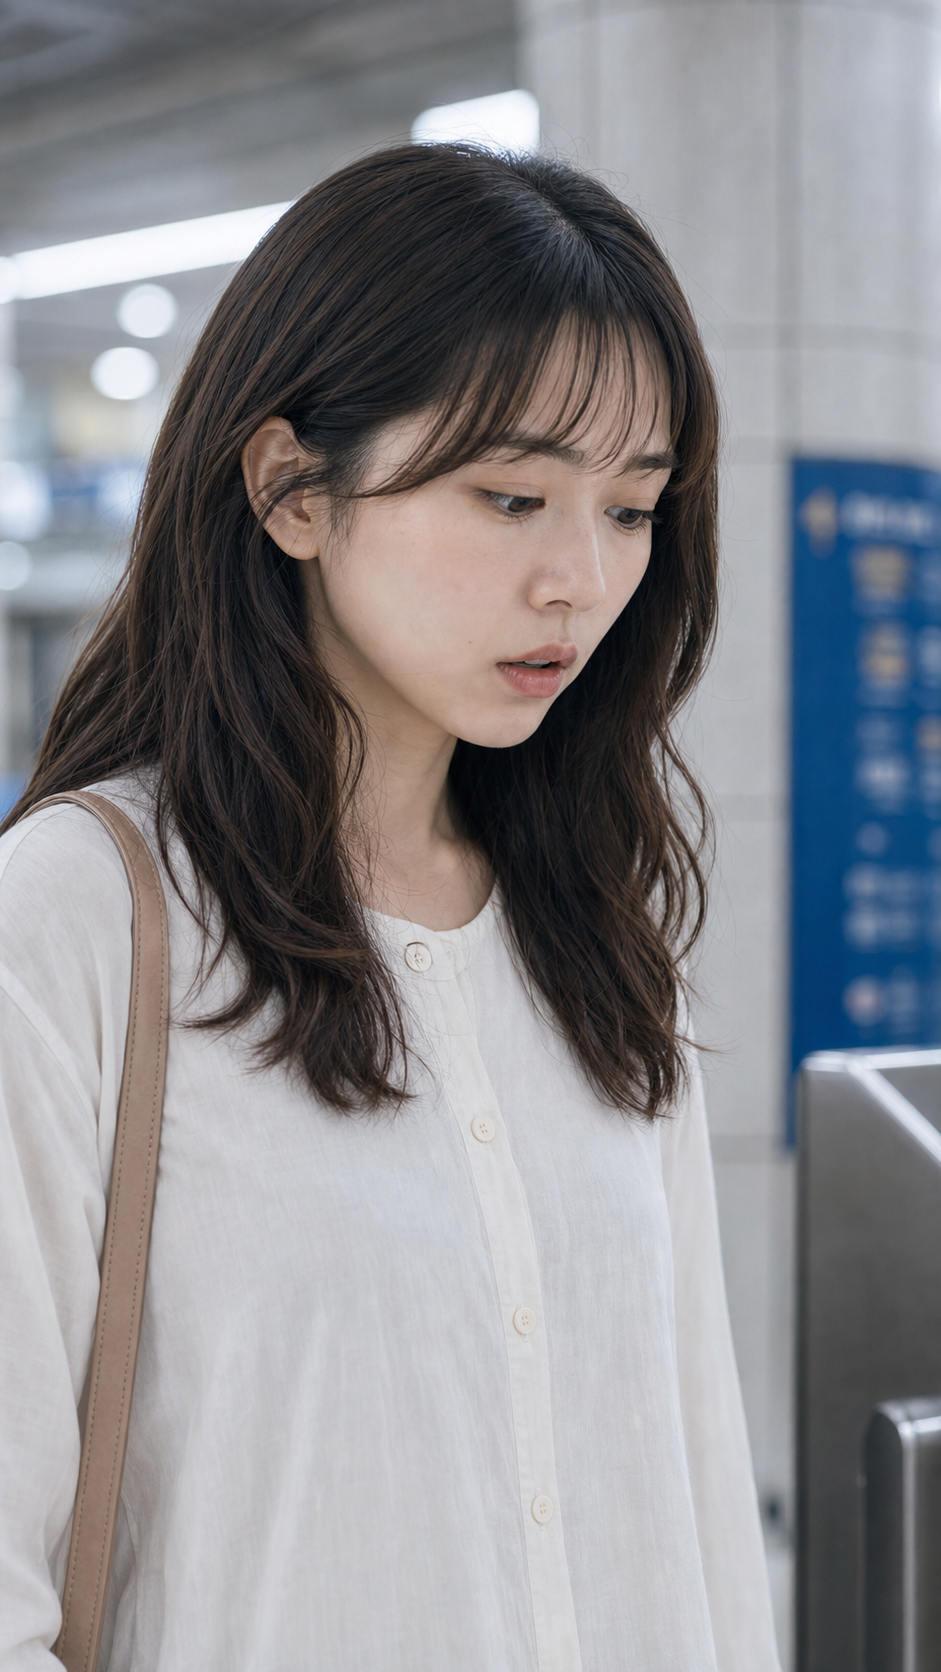
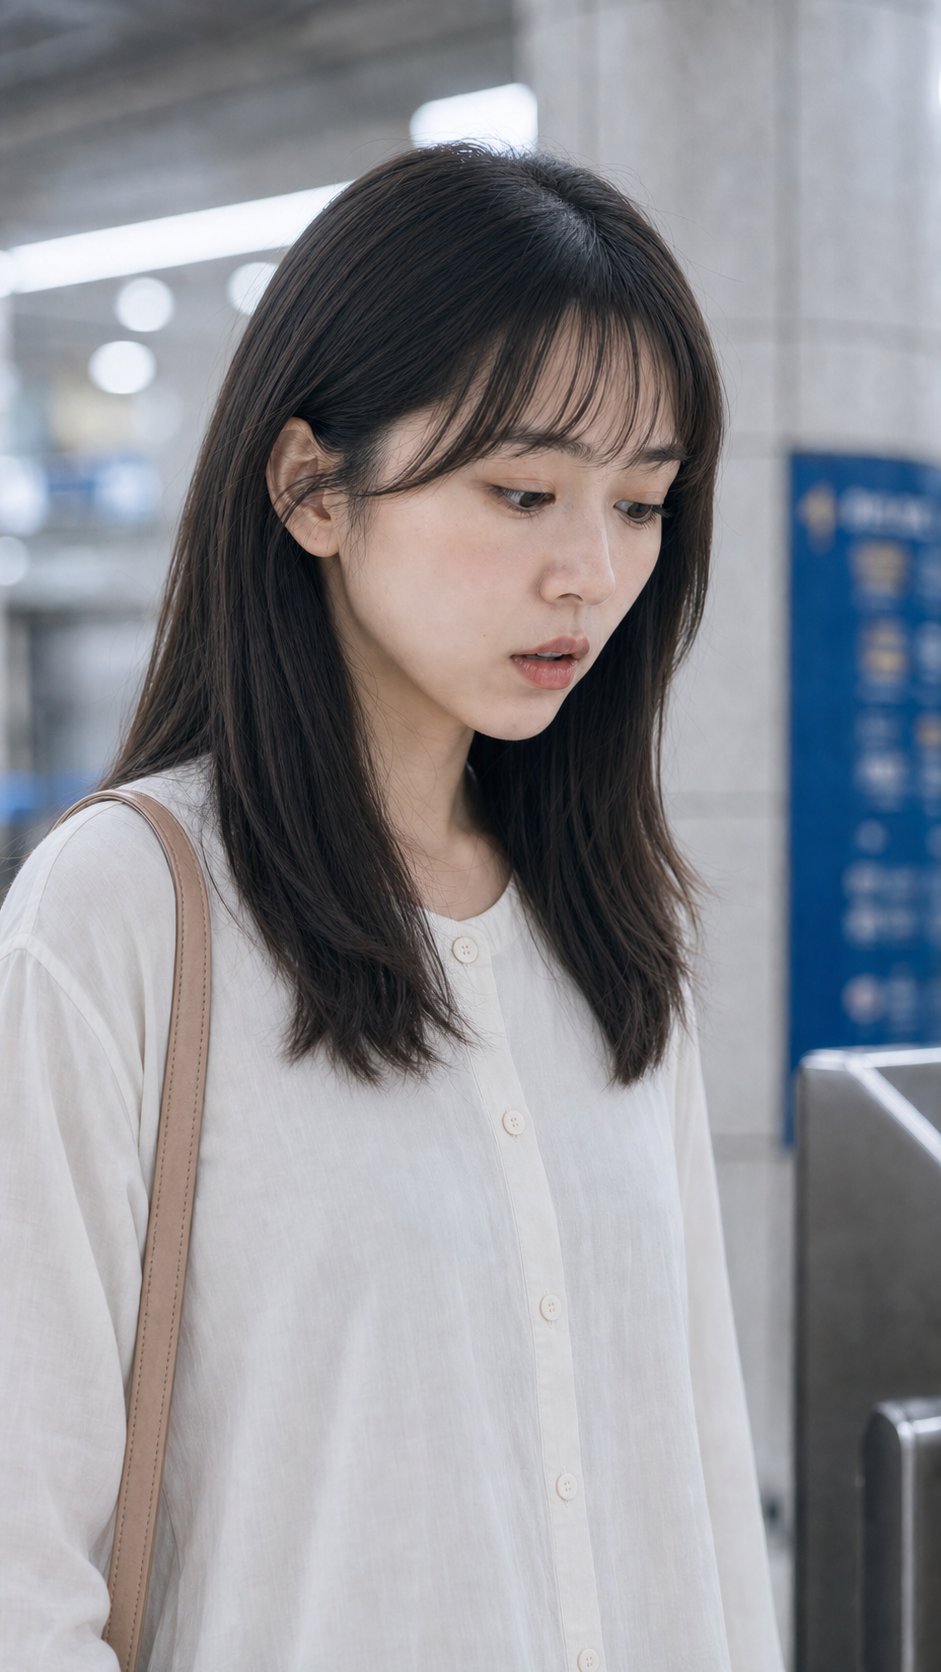
feat: recast tourist across storyboard

diff --git a/edit/storyboard_gpt2/prompts/prompt-pack.md b/edit/storyboard_gpt2/prompts/prompt-pack.md
@@ -23,15 +23,15 @@ Create the empty spatial master with exactly six separate gate cabinets forming 
 
 ## A02 — tourist blocking master
 
-Inputs: S02 sketch = composition reference; tourist sheet = exact identity/wardrobe reference; A01 = exact environment/geography reference.
+Inputs: S02 sketch = composition reference; `tourist_lock_JP_v2.jpg` = exact Photo 1 identity; A01 = exact environment/geography reference.
 
 ```text
-Preserve A01's Korean station, exact `타는 곳  Tracks  ①  →` sign, camera height, six cabinets/five lanes and G3/G4 geography. Add exactly one locked Japanese woman entering from offscreen-left and stopping at the G3 entrance. She remains before the closed dark glass flap. Her right arm reaches toward the screen-right G3 reader; her silver suitcase trails behind-left and remains outside the gate. Full body plus gate context, calm travel posture, beige crossbody bag visible. Do not move the reader, alter the sign, open the flap, place her beyond the flap, add a referee, reveal a TOSS card or add foreground travelers.
+Preserve A01's Korean station, exact `타는 곳  Tracks  ①  →` sign, camera height, six cabinets/five lanes and G3/G4 geography. Add exactly the Photo 1 Japanese woman with straight dark-brown shoulder-length hair and light full bangs, entering from offscreen-left and stopping at the G3 entrance. She remains before the closed dark glass flap. Her right arm reaches toward the screen-right G3 reader; her silver suitcase trails behind-left and remains outside the gate. Full body plus gate context, white blouse, light-blue jeans, beige flats and beige crossbody bag visible. Do not move the reader, alter the sign, open the flap, place her beyond the flap, add a referee, reveal a TOSS card or add foreground travelers.
 ```
 
 ## A03 — referee blocking master
 
-Inputs: S06 sketch = composition reference; referee sheet = exact identity/wardrobe reference; tourist sheet = exact identity/wardrobe reference; A01 and A02 = environment/blocking references.
+Inputs: S06 sketch = timing reference; referee sheet = exact identity/wardrobe reference; `tourist_lock_JP_v2.jpg` = exact Photo 1 identity; A01 and A02 = environment/blocking references.
 
 ```text
 Preserve the exact Korean station, overhead `타는 곳  Tracks  ①  →` sign and tourist placement from A01/A02. The tourist stays at G3 before the closed flap. Add exactly one locked Korean soccer referee standing unexpectedly in G4 on screen-right, full body visible, squared shoulders, arms relaxed, stern deadpan face, black whistle and black watch present. He must not stand inside G3 or on screen-left. The comedy comes only from his absurdly formal presence in a real Korean subway. No stadium, crowd, card, smile or dramatic rays.
@@ -43,15 +43,15 @@ Inputs: S01 sketch = composition; A01 = environment reference. Use A01 framing a
 
 ## S02
 
-Inputs: S02 sketch = composition; A01/A02 = environment and blocking; tourist sheet = identity. Same locked camera as S01. Capture the tourist mid-entry from screen-left, suitcase rolling behind-left, right hand beginning to reach for G3 reader, feet still before the flap.
+Inputs: S02 sketch = composition; A01/A02 = environment and blocking; `tourist_lock_JP_v2.jpg` = identity. Same locked camera as S01. Capture the Photo 1 tourist with straight shoulder-length hair and full bangs mid-entry from screen-left, suitcase rolling behind-left, right hand beginning to reach for G3 reader, feet still before the flap.
 
 ## S03
 
-Inputs: S03 sketch = composition; A02 = blocking; tourist sheet = identity. 45-degree high angle over the tourist's right shoulder. Show her correct right hand presenting one generic matte-gray unbranded transit card flat over the G3 reader, a small red failure light, closed flaps ahead and suitcase behind-left. No TOSS colors or logo. Anatomically correct hand, reader and card contact.
+Inputs: S03 sketch = composition; A02 = blocking; `tourist_lock_JP_v2.jpg` = identity and straight-hair silhouette. 45-degree high angle over the tourist's right shoulder. Show her correct right hand presenting one generic matte-gray unbranded transit card flat over the G3 reader, a small red failure light, closed flaps ahead and suitcase behind-left. No TOSS colors or logo. Anatomically correct hand, reader and card contact.
 
 ## S04
 
-Inputs: S04 sketch = composition; A02 = blocking; tourist sheet = identity. Tight natural close-up. She looks down and slightly screen-right toward her hand and reader, brows lifted and lips barely parted, restrained confusion. She does not look into camera or toward the referee yet. Soft 50mm depth, no text.
+Inputs: S04 sketch = composition; A02 = blocking; `tourist_lock_JP_v2.jpg` = exact face, full bangs and straight shoulder-length hair. Tight natural close-up. She looks down and slightly screen-right toward her hand and reader, brows lifted and lips barely parted, restrained confusion. She does not look into camera or toward the referee yet. Soft 50mm depth, no text.
 
 ## S05
 
@@ -63,7 +63,7 @@ Inputs: old S06 = story beat only; A04 = mandatory right-side corridor; `tourist
 
 ## S07
 
-Inputs: S07 sketch = composition; A02/A03 = direction; tourist sheet = identity. Tight reaction of the tourist turning only her eyes and chin toward screen-right at the referee, small realistic disbelief, no smile, no dialogue text. Eyeline must exit frame right.
+Inputs: S07 sketch = composition; A02/A03 = direction; `tourist_lock_JP_v2.jpg` = exact Photo 1 identity. Tight reaction of the straight-haired tourist turning only her eyes and chin toward screen-right at the referee, small realistic disbelief, no smile, no dialogue text. Eyeline must exit frame right.
 
 ## S08
 
@@ -71,11 +71,11 @@ Inputs: approved S06 + A04 = exact geography and approach axis; `tourist_lock_JP
 
 ## S09
 
-Inputs: S09 sketch = composition; A02/A03 = geography; both character sheets = identity. Preserve the tourist's medium profile frame at G3. The referee intrudes from screen-right toward screen-left in the near foreground, shoulder and torso crossing into frame, then stops close but respectful. Tourist looks at him. Only two people, no merged bodies, no cards.
+Inputs: S09 sketch = composition; A02/A03 = geography; `tourist_lock_JP_v2.jpg` and referee sheet = identities. Preserve the Photo 1 tourist's medium profile frame at G3 with straight shoulder-length hair and full bangs. The referee intrudes from screen-right toward screen-left in the near foreground, shoulder and torso crossing into frame, then stops close but respectful. Tourist looks at him. Only two people, no merged bodies, no cards.
 
 ## S10
 
-Inputs: S10 sketch = composition; S09/A03 = blocking; referee sheet = identity; exact TOSS PNG = product insert reference. Medium-tight chest shot. The referee looks down and pulls exactly one card from his striped shirt chest pocket like a soccer booking; only the top corner of the exact blue holographic TOSS card is visible. Restrained blue-gold Japanese game rays begin behind the pocket. Preserve live-action subway background, correct fingers, whistle and watch.
+Inputs: S10 sketch = composition; S09/A03 = blocking; `tourist_lock_JP_v2.jpg` = foreground hair silhouette; referee sheet = identity; exact TOSS PNG = product insert reference. Medium-tight chest shot. The referee looks down and pulls exactly one card from his striped shirt chest pocket like a soccer booking; only the top corner of the exact blue holographic TOSS card is visible. The tourist remains a blurred screen-left foreground fragment with straight shoulder-length hair. Restrained blue-gold Japanese game rays begin behind the pocket. Preserve live-action subway background, correct fingers, whistle and watch.
 
 ## S11
 
@@ -87,4 +87,4 @@ Inputs: old S12 = reader design and success state only; corrected S13 = screen r
 
 ## S13
 
-Inputs: S13 sketch = composition; A01/A02/A03/S12 = environment and continuity; both character sheets = identity; exact TOSS PNG = product reference. Elegant side-profile vertical wide shot. The G3 glass flaps are now open. Tourist and silver suitcase cross together toward the paid side while she glances back with relieved gratitude. Referee is physically on SCREEN-RIGHT of the reader, facing screen-left, and taps the exact card with his RIGHT HAND; his watch-bearing LEFT ARM hangs straight down. The overhead Korean subway sign reads `타는 곳 / Tracks / ① →`. Leave the upper-left third quiet and uncluttered for later copy. Calm premium end-frame light, no generated overlay text, no mirrored anatomy or hand swap.
+Inputs: S13 sketch = composition; A01/A02/A03/S12 = environment and continuity; `tourist_lock_JP_v2.jpg` and referee sheet = identities; exact TOSS PNG = product reference. Elegant side-profile vertical wide shot. The G3 glass flaps are now open. The Photo 1 tourist with straight shoulder-length hair and her silver suitcase cross together toward the paid side while she glances back with relieved gratitude. Referee is physically on SCREEN-RIGHT of the reader, facing screen-left, and taps the exact card with his RIGHT HAND; his watch-bearing LEFT ARM hangs straight down. The overhead Korean subway sign reads `타는 곳 / Tracks / ① →`. Leave the upper-left third quiet and uncluttered for later copy. Calm premium end-frame light, no generated overlay text, no mirrored anatomy or hand swap.
